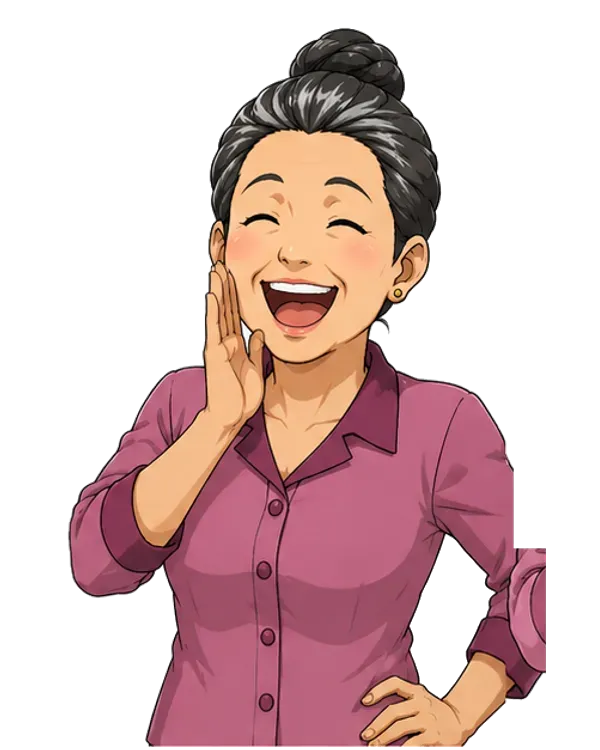
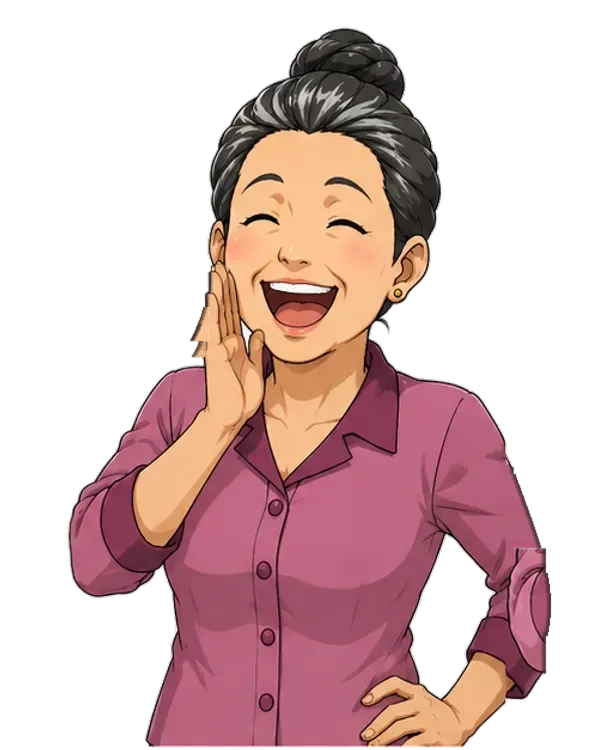
game: กรอบสายด่วน 1669 เป็นหน้าจอโทรศัพท์ + ซ่อม/เปลี่ยนรูปป้าแก้ว (#81)
- กรอบ จนท.1669 เป็นตัวเครื่องโทรศัพท์: แถบสถานะ, บล็อกผู้โทร, เวลาสนทนา
- ปุ่มรับสาย/ลำโพง/วางสาย บนจอ (ลำโพงผูกกับสวิตช์เสียงเกม) ไม่แตะ flow เนื้อเรื่อง
- ซ่อม silhouette รูปป้าแก้วที่โดนตัดเป็นเส้นตรงทั้ง 5 ท่า
- ป้าแก้วท่า panic สลับไปใช้รูปท่า talk ผ่าน poseImage map
- ลด sprite เป็น 100vw กันเวทีเฉือนไหล่/แขน

Changed region(s): [[0.84, 0.6133, 0.9, 0.736], [0.3, 0.368, 0.36, 0.4907], [0.9, 0.736, 0.93, 0.8893]]

diff --git a/files/jia-online/src/game/GamePage.jsx b/files/jia-online/src/game/GamePage.jsx
@@ -60,6 +60,38 @@ const readCleared = () => {
 // ป้ายอ้างอิงบทเรียน — เคสที่ไม่ผูกกับบทใดบทหนึ่ง (bonus) ใช้ c.tag แทน "บทที่ N"
 const lessonTag = (c) => (c.lesson ? `บทที่ ${c.lesson}` : (c.tag || 'โบนัส'));
 
+// นาฬิกาจับเวลาสาย 1669 บนกรอบโทรศัพท์ (mm:ss)
+const fmtCall = (s) => `${String(Math.floor(s / 60)).padStart(2, '0')}:${String(s % 60).padStart(2, '0')}`;
+
+// ลำโพงบนหน้าจอโทรศัพท์ — off = ขีดคาดทับ (เสียงเกมปิดอยู่)
+function Speaker({ off = false }) {
+  return (
+    <svg viewBox="0 0 24 24" aria-hidden="true">
+      <path fill="currentColor" d="M4 9.5h3.2L12 5.4v13.2L7.2 14.5H4a1 1 0 0 1-1-1v-3a1 1 0 0 1 1-1z" />
+      {off ? (
+        <path stroke="currentColor" strokeWidth="2" strokeLinecap="round" d="M15.5 9.5l5 5m0-5l-5 5" />
+      ) : (
+        <path
+          fill="none" stroke="currentColor" strokeWidth="1.9" strokeLinecap="round"
+          d="M15.4 9.1a4 4 0 0 1 0 5.8M18 6.6a7.6 7.6 0 0 1 0 10.8"
+        />
+      )}
+    </svg>
+  );
+}
+
+// หูโทรศัพท์สำหรับปุ่มรับสาย/วางสาย — down = หมุนเป็นท่าวางสาย
+function Handset({ down = false }) {
+  return (
+    <svg viewBox="0 0 24 24" aria-hidden="true" style={down ? { transform: 'rotate(133deg)' } : undefined}>
+      <path
+        fill="currentColor"
+        d="M6.6 10.8c1.4 2.8 3.8 5.2 6.6 6.6l2.2-2.2c.3-.3.7-.4 1-.2 1.2.4 2.4.6 3.6.6.6 0 1 .4 1 1V20c0 .6-.4 1-1 1C10.6 21 3 13.4 3 4c0-.6.4-1 1-1h3.5c.6 0 1 .4 1 1 0 1.3.2 2.5.6 3.6.1.4 0 .8-.2 1l-2.3 2.2z"
+      />
+    </svg>
+  );
+}
+
 // สุ่มเคสที่ยังไม่ถูกล็อก — สำหรับเข้าจากแบนเนอร์/ลิงก์ ?game=random เสิร์ฟโจทย์ให้นักเรียนทันที
 // เลี่ยงเคสที่เคยผ่านมาก่อน (ให้เจอของใหม่) — ถ้าผ่านครบแล้วค่อยสุ่มจากทั้งหมด
 const randomUnlockedScenario = (finalExamPassed) => {
@@ -147,6 +179,17 @@ export default function GamePage({ onExit, onTrack, fetchCustomImages, finalExam
   const [result, setResult] = useState(null); // { won, grade, score, isHiscore }
   const [voucher, setVoucher] = useState(null); // รหัสคูปองส่วนลด ฿100 ที่ได้จากการชนะเกม (null = ยังไม่ได้/ไม่มีสิทธิ์)
   const [hiscore, setHiscore] = useState(() => Number(localStorage.getItem(hiscoreKey(difficulty)) || 0));
+
+  // สายด่วน 1669 — สถานะกรอบโทรศัพท์ (คุมแค่การแสดงผลของกรอบ ไม่แตะ flow เนื้อเรื่อง:
+  // วางสายแล้วบทพูดยังเดินต่อได้ตามปกติ แค่ปิดภาพปลายสายจนกว่าจะกดรับสายใหม่)
+  const [callLive, setCallLive] = useState(true);
+  const [callSec, setCallSec] = useState(0);
+  const onCall = !!(speaker && getCharacter(speaker.who)?.phoneFrame);
+  useEffect(() => {
+    if (!onCall || !callLive) return undefined;
+    const iv = setInterval(() => setCallSec((s) => s + 1), 1000);
+    return () => clearInterval(iv);
+  }, [onCall, callLive]);
 
   const timers = useRef({ type: null, dec: null, misc: [], metronome: null });
   const busyRef = useRef(false);
@@ -521,6 +564,30 @@ export default function GamePage({ onExit, onTrack, fetchCustomImages, finalExam
     );
   }
 
+  // ปุ่มบนกรอบโทรศัพท์ — stopPropagation กันไปโดนแตะเวที (ซึ่ง = ข้าม/ไปต่อบทพูด)
+  function answerCall(e) {
+    e.stopPropagation();
+    if (callLive) return;
+    setCallLive(true);
+    setCallSec(0);
+    sfx(() => playBeep(680, 0.12, 0.2));
+    vibrate(30);
+  }
+
+  function hangCall(e) {
+    e.stopPropagation();
+    if (!callLive) return;
+    setCallLive(false);
+    sfx(() => playBeep(220, 0.2, 0.24));
+    vibrate(20);
+  }
+
+  // ปุ่มลำโพงบนกรอบโทรศัพท์ = สวิตช์เสียงของเกม (ปุ่มบนหน้าจอโทรศัพท์ที่ทำงานจริง)
+  function toggleSpeaker(e) {
+    e.stopPropagation();
+    toggleMute();
+  }
+
   function onDialogTap() {
     if (busyRef.current) return;
     if (!mutedRef.current) initAudio(); // เข้าจากลิงก์ auto-start: แตะครั้งแรกในเกมคือ gesture ที่ปลดล็อกเสียง
@@ -556,6 +623,8 @@ export default function GamePage({ onExit, onTrack, fetchCustomImages, finalExam
     setDrama(null);
     setSpeaker(null);
     setPlate(null);
+    setCallLive(true);
+    setCallSec(0);
     setDlgHtml('');
     setScreen('game');
     track('game_started', { scenario_id: sc.id, lesson: sc.lesson, difficulty });
@@ -915,13 +984,72 @@ export default function GamePage({ onExit, onTrack, fetchCustomImages, finalExam
           {speaker && (
             <div className={`cbs-sprite ${reducedMotion ? '' : 'cbs-pop'}`} key={`sp-${speaker.popN}`}>
               {char?.phoneFrame ? (
-                /* ตัวละครที่คุยผ่านสาย — ใส่กรอบวิดีโอคอล: ขอบกรอบครอปข้างลำตัว
-                   ที่โดนตัดจากภาพต้นฉบับ ให้ดูเป็นเฟรมสายด่วนที่ตั้งใจ */
-                <div className="cbs-phoneframe">
-                  <CharacterSprite charId={speaker.who} pose={speaker.pose} talking={typing} imgV={imgV} />
-                  <div className="cbs-phoneframe-head">
-                    <span className="cbs-phoneframe-dot" />{char.phoneFrame}
+                /* ตัวละครที่คุยผ่านสาย — ใส่กรอบโทรศัพท์: จอครอปข้างลำตัวที่โดนตัด
+                   จากภาพต้นฉบับ ให้ดูเป็นเฟรมสายด่วนที่ตั้งใจ + ปุ่มรับสาย/วางสายจริง */
+                <div className="cbs-phone">
+                  <div className="cbs-phone-ear" />
+                  <div className="cbs-phone-screen">
+                    {/* แถบสถานะบนสุดแบบมือถือ: ชื่อเครือข่าย + สัญญาณ + แบต */}
+                    <div className="cbs-phone-status">
+                      <span>EMS 1669</span>
+                      <span className="cbs-phone-status-r">
+                        <span className="cbs-phone-sig" aria-hidden="true"><i /><i /><i /><i /></span>
+                        <span className="cbs-phone-batt" aria-hidden="true" />
+                      </span>
+                    </div>
+
+                    {callLive ? (
+                      <CharacterSprite charId={speaker.who} pose={speaker.pose} talking={typing} imgV={imgV} />
+                    ) : (
+                      <div className="cbs-phone-idle">
+                        <span className="cbs-phone-avatar" aria-hidden="true"><Handset down /></span>
+                        <span className="cbs-phone-idle-note">แตะปุ่มเขียวเพื่อโทรกลับ</span>
+                      </div>
+                    )}
+
+                    {/* บล็อกชื่อผู้โทร — วางแบบหน้าจอสายเรียกเข้าจริง */}
+                    <div className="cbs-phone-caller">
+                      <b>{char.name}</b>
+                      <span className="cbs-phone-sub">{char.role}</span>
+                      <span className={`cbs-phone-state ${callLive ? '' : 'cbs-off'}`}>
+                        <i className="cbs-phone-dot" />
+                        {callLive ? `กำลังสนทนา ${fmtCall(callSec)}` : `วางสายแล้ว · ${fmtCall(callSec)}`}
+                      </span>
+                    </div>
+
+                    <div className="cbs-phone-keys">
+                      <button
+                        type="button"
+                        className="cbs-phone-key cbs-phone-answer"
+                        onClick={answerCall}
+                        disabled={callLive}
+                        aria-label="รับสาย"
+                      >
+                        <span className="cbs-phone-ico"><Handset /></span>
+                        รับสาย
+                      </button>
+                      <button
+                        type="button"
+                        className={`cbs-phone-key cbs-phone-speaker ${muted ? '' : 'cbs-on'}`}
+                        onClick={toggleSpeaker}
+                        aria-label={muted ? 'เปิดลำโพง' : 'ปิดลำโพง'}
+                      >
+                        <span className="cbs-phone-ico"><Speaker off={muted} /></span>
+                        ลำโพง
+                      </button>
+                      <button
+                        type="button"
+                        className="cbs-phone-key cbs-phone-hangup"
+                        onClick={hangCall}
+                        disabled={!callLive}
+                        aria-label="วางสาย"
+                      >
+                        <span className="cbs-phone-ico"><Handset down /></span>
+                        วางสาย
+                      </button>
+                    </div>
                   </div>
+                  <div className="cbs-phone-chin" />
                 </div>
               ) : (
                 <CharacterSprite charId={speaker.who} pose={speaker.pose} talking={typing} imgV={imgV} />

diff --git a/files/jia-online/src/game/game.css b/files/jia-online/src/game/game.css
@@ -310,8 +310,9 @@
 
 .cbs-sprite {
   position: relative; z-index: 2; flex-shrink: 0;
-  /* ขนาดเดียวกับ Code Blue Sim (acls.morroo.com) — ตัวละครใหญ่เกือบเต็มความกว้างจอมือถือ */
-  width: min(105vw, 445px);
+  /* ตัวละครใหญ่เกือบเต็มความกว้างจอมือถือ — แต่ไม่เกิน 100vw
+     เพราะเวที overflow:hidden จะเฉือนแขน/ไหล่ที่ล้นออกไปจนดูแหว่ง */
+  width: min(100vw, 445px);
 }
 .cbs-sprite.cbs-pop { animation: cbs-pop .22s ease; }
 .cbs-sprite svg, .cbs-sprite-img {
@@ -320,32 +321,141 @@
 }
 .cbs-sprite-img { user-select: none; }
 
-/* กรอบวิดีโอคอล "สายด่วน" — ตัวละครที่คุยผ่านโทรศัพท์ (จนท.1669)
-   ขอบกรอบครอปข้างลำตัวที่โดนตัดจากภาพต้นฉบับแผงแคบ ให้ดูเป็นเฟรมที่ตั้งใจ */
-.cbs-phoneframe {
-  position: relative; width: 52%; margin: 0 auto;
-  border: 3px solid #33406E; border-radius: 16px;
-  background: linear-gradient(180deg, #16224C, #0B1130);
-  overflow: hidden;
-  box-shadow: 0 0 0 3px rgba(4, 8, 18, .55), 0 14px 34px rgba(0, 0, 0, .55);
+/* กรอบ "โทรศัพท์สายด่วน" — ตัวละครที่คุยผ่านสาย (จนท.1669)
+   จอครอปข้างลำตัวที่โดนตัดจากภาพต้นฉบับแผงแคบ ให้ดูเป็นเฟรมที่ตั้งใจ
+   + ปุ่มรับสาย/วางสายบนจอ เหมือนหน้าจอสายเรียกเข้าในมือถือจริง */
+.cbs-phone {
+  position: relative; width: 63%; margin: 0 auto;
+  padding: 9px 8px 10px;
+  border: 2px solid #3A466F; border-radius: 26px;
+  background: linear-gradient(180deg, #2A3254, #171D35 46%, #0E1327);
+  box-shadow:
+    inset 0 1px 0 rgba(255, 255, 255, .13),
+    0 0 0 3px rgba(4, 8, 18, .55),
+    0 16px 34px rgba(0, 0, 0, .6);
 }
-/* ขยายรูปกลับเท่าขนาด sprite จริง (1/0.52) — กรอบทำหน้าที่ครอปซ้ายขวา */
-.cbs-phoneframe .cbs-sprite-img, .cbs-phoneframe svg {
+/* ช่องลำโพงหูฟังบนหัวเครื่อง + แถบ home indicator ที่คาง = อ่านออกว่าเป็นมือถือ */
+.cbs-phone-ear {
+  width: 30%; height: 4px; margin: 1px auto 7px;
+  border-radius: 999px; background: #070B16;
+  box-shadow: inset 0 1px 1.5px rgba(0, 0, 0, .9);
+}
+.cbs-phone-chin {
+  width: 34%; height: 3px; margin: 7px auto 0;
+  border-radius: 999px; background: rgba(180, 195, 235, .35);
+}
+.cbs-phone-screen {
+  position: relative; border-radius: 15px; overflow: hidden;
+  border: 1px solid rgba(120, 140, 200, .22);
+  background: linear-gradient(180deg, #16224C, #0B1130);
+}
+/* ขยายรูปกลับเท่าขนาด sprite จริง (1/0.52) — จอทำหน้าที่ครอปซ้ายขวา */
+.cbs-phone-screen > .cbs-sprite-img, .cbs-phone-screen .cbs-sprite-svg svg {
   width: 192.3%; margin-left: -46.15%;
   filter: none; /* เงา drop-shadow ไม่จำเป็นในกรอบ — กรอบมีเงาของตัวเอง */
 }
-.cbs-phoneframe-head {
-  position: absolute; top: 8px; left: 50%; transform: translateX(-50%);
-  display: inline-flex; align-items: center; gap: 6px;
-  font-family: var(--cbs-mono); font-size: 11px; letter-spacing: .08em;
-  color: #FFD9DA; background: rgba(4, 8, 18, .78);
-  border: 1.5px solid rgba(229, 72, 77, .65); border-radius: 999px;
-  padding: 4px 12px; white-space: nowrap;
+/* แถบสถานะบนสุดของจอ — เครือข่าย/สัญญาณ/แบต */
+.cbs-phone-status {
+  position: absolute; top: 0; left: 0; right: 0; z-index: 3;
+  display: flex; align-items: center; justify-content: space-between;
+  padding: 5px 11px 9px;
+  font-family: var(--cbs-mono); font-size: 8.5px; letter-spacing: .1em;
+  color: rgba(233, 239, 255, .9);
+  background: linear-gradient(180deg, rgba(4, 8, 18, .8), transparent);
 }
-.cbs-phoneframe-dot {
-  width: 7px; height: 7px; border-radius: 50%;
-  background: var(--cbs-red); box-shadow: 0 0 8px var(--cbs-red);
+.cbs-phone-status-r { display: inline-flex; align-items: center; gap: 5px; }
+.cbs-phone-sig { display: inline-flex; align-items: flex-end; gap: 1.5px; height: 8px; }
+.cbs-phone-sig i { width: 2px; background: currentColor; border-radius: 1px; }
+.cbs-phone-sig i:nth-child(1) { height: 3px; }
+.cbs-phone-sig i:nth-child(2) { height: 5px; }
+.cbs-phone-sig i:nth-child(3) { height: 6.5px; }
+.cbs-phone-sig i:nth-child(4) { height: 8px; }
+.cbs-phone-batt {
+  position: relative; width: 15px; height: 8px; border-radius: 2px;
+  border: 1px solid currentColor; padding: 1px;
+  background:
+    linear-gradient(90deg, currentColor 72%, transparent 72%) content-box no-repeat;
+}
+.cbs-phone-batt::after {
+  content: ""; position: absolute; right: -3px; top: 2px;
+  width: 1.5px; height: 3px; border-radius: 0 1px 1px 0; background: currentColor;
+}
+
+/* บล็อกชื่อผู้โทร — ชื่อ + หน่วยงาน + สถานะสาย เหมือนหน้าจอโทรออกจริง */
+.cbs-phone-caller {
+  position: absolute; top: 22px; left: 0; right: 0; z-index: 2;
+  display: flex; flex-direction: column; align-items: center; gap: 2px;
+  padding: 4px 10px 16px; text-align: center;
+  background: linear-gradient(180deg, rgba(4, 8, 18, .72) 45%, transparent);
+  text-shadow: 0 1px 4px rgba(0, 0, 0, .85);
+}
+.cbs-phone-caller b { font-size: 13.5px; letter-spacing: .02em; }
+.cbs-phone-sub { font-size: 9.5px; color: #A8B4D8; letter-spacing: .06em; }
+.cbs-phone-state {
+  display: inline-flex; align-items: center; gap: 5px; margin-top: 2px;
+  font-family: var(--cbs-mono); font-size: 10px; color: #BFE9CF;
+  font-variant-numeric: tabular-nums;
+}
+.cbs-phone-state.cbs-off { color: #C79AA0; }
+.cbs-phone-dot {
+  width: 6px; height: 6px; border-radius: 50%;
+  background: var(--cbs-green); box-shadow: 0 0 7px var(--cbs-green);
   animation: cbs-blink 1.2s steps(2) infinite;
+}
+.cbs-phone-state.cbs-off .cbs-phone-dot {
+  background: var(--cbs-red); box-shadow: 0 0 7px var(--cbs-red); animation: none;
+}
+
+/* หน้าจอตอนวางสายไปแล้ว — บทพูดยังเดินต่อได้ แค่ปิดภาพปลายสาย */
+.cbs-phone-idle {
+  display: flex; flex-direction: column; align-items: center; justify-content: center;
+  gap: 12px; min-height: 250px; padding: 84px 16px 92px;
+}
+.cbs-phone-idle-note { font-size: 10.5px; color: #8B99C4; letter-spacing: .04em; }
+.cbs-phone-avatar {
+  width: 74px; height: 74px; border-radius: 50%;
+  display: grid; place-items: center; color: #7C8AB4;
+  background: rgba(120, 140, 200, .12);
+  border: 1.5px solid rgba(120, 140, 200, .28);
+}
+.cbs-phone-avatar svg { width: 30px; height: 30px; filter: none; }
+
+/* แถบปุ่มรับสาย/วางสาย — ลอยบนจอเหมือน call screen (ไม่กินความสูงเวที) */
+.cbs-phone-keys {
+  position: absolute; left: 0; right: 0; bottom: 0;
+  display: flex; justify-content: center; gap: 14px;
+  padding: 34px 8px 12px;
+  background: linear-gradient(180deg, transparent, rgba(4, 8, 18, .9) 58%);
+}
+.cbs-phone-key {
+  display: flex; flex-direction: column; align-items: center; gap: 5px;
+  padding: 0; border: 0; background: none; cursor: pointer;
+  font-family: var(--cbs-mono); font-size: 9.5px; letter-spacing: .06em;
+  color: #E7ECFF;
+}
+.cbs-phone-ico {
+  width: 42px; height: 42px; border-radius: 50%;
+  display: grid; place-items: center; color: #fff; font-size: 17px;
+  border: 1.5px solid rgba(4, 8, 18, .45);
+  box-shadow: 0 4px 12px rgba(0, 0, 0, .5), inset 0 1px 0 rgba(255, 255, 255, .28);
+}
+.cbs-phone-key svg { width: 21px; height: 21px; display: block; filter: none; }
+.cbs-phone-answer .cbs-phone-ico { background: linear-gradient(180deg, #4BD97F, #1E9B4C); }
+.cbs-phone-hangup .cbs-phone-ico { background: linear-gradient(180deg, #F2686C, #C22026); }
+/* ลำโพง = สวิตช์เสียงเกม — สว่างเมื่อเปิดเสียง */
+.cbs-phone-speaker .cbs-phone-ico {
+  background: rgba(233, 239, 255, .14); border-color: rgba(233, 239, 255, .3);
+}
+.cbs-phone-speaker.cbs-on .cbs-phone-ico {
+  background: rgba(233, 239, 255, .92); border-color: rgba(255, 255, 255, .6);
+}
+.cbs-phone-key:disabled { opacity: .32; cursor: default; }
+.cbs-phone-key:not(:disabled):active .cbs-phone-ico { transform: scale(.92); }
+/* ปุ่มที่กดได้ตอนนี้สั่นเรียกสายให้เห็นชัดว่าแตะได้ */
+.cbs-phone-answer:not(:disabled) .cbs-phone-ico { animation: cbs-ring 1.1s ease-in-out infinite; }
+@keyframes cbs-ring {
+  0%, 100% { transform: rotate(0); box-shadow: 0 0 0 0 rgba(75, 217, 127, .55), 0 4px 12px rgba(0, 0, 0, .5); }
+  50% { transform: rotate(-9deg); box-shadow: 0 0 0 11px rgba(75, 217, 127, 0), 0 4px 12px rgba(0, 0, 0, .5); }
 }
 
 /* HUD */
@@ -605,7 +715,8 @@
   .cbs-shake, .cbs-flash.cbs-go, .cbs-redflash.cbs-go,
   .cbs-title::before, .cbs-stage.cbs-drama::before, .cbs-stage.cbs-drama-red::before,
   .cbs-inter-burst, .cbs-adv, .cbs-choice, .cbs-sprite.cbs-pop,
-  .cbs-inter-bubble, .cbs-stamp, .cbs-retry-banner {
+  .cbs-inter-bubble, .cbs-stamp, .cbs-retry-banner,
+  .cbs-phone-answer:not(:disabled) .cbs-phone-ico {
     animation: none !important;
   }
 }

diff --git a/files/jia-online/src/game/characters.js b/files/jia-online/src/game/characters.js
@@ -68,6 +68,9 @@ export const CHARACTERS = {
     name: 'ป้าแก้ว',
     role: 'คนเห็นเหตุการณ์',
     plate: ['#C86FA0', '#8E3D6C'],
+    // ท่า panic ของป้าแก้ว: ไม่ใช้รูป panic.webp — ให้ไปหยิบรูปท่า talk มาแสดงแทน
+    // (ท่าตะโกนเหมือนกัน) engine ยังส่ง pose 'panic' ตามเดิม เอฟเฟกต์จอแดงจึงยังทำงาน
+    poseImage: { panic: 'talk' },
     placeholder(pose) {
       const skin = '#F6CDA8', dress = '#C86FA0', dressD = '#9A4A78', hair = '#4A3A3F';
       return `<svg viewBox="0 0 200 250" xmlns="http://www.w3.org/2000/svg">
@@ -186,8 +189,14 @@ export function registerCustomImages(map) {
 }
 
 // URL รูปจริง — ลำดับ: รูปที่แอดมินอัปโหลด > ไฟล์ใน public/images/characters/ > SVG placeholder
+// ตัวละครที่ตั้ง poseImage ไว้ จะสลับไปใช้ไฟล์ของอีกท่าหนึ่ง — แต่ถ้าแอดมินอัปโหลดรูป
+// ของท่านั้นมาเองแล้ว ให้รูปที่อัปโหลดชนะเสมอ (ตั้งใจอัปมาก็ต้องได้ใช้)
 export function characterImageUrl(charId, pose, talking = false) {
-  const key = `${charId}/${pose}${talking ? '_talk' : ''}`;
-  if (customImages[key]) return customImages[key];
-  return `/images/characters/${charId}/${pose}${talking ? '_talk' : ''}.webp`;
+  const suffix = talking ? '_talk' : '';
+  if (customImages[`${charId}/${pose}${suffix}`]) return customImages[`${charId}/${pose}${suffix}`];
+  const file = CHARACTERS[charId]?.poseImage?.[pose] || pose;
+  if (file !== pose && customImages[`${charId}/${file}${suffix}`]) {
+    return customImages[`${charId}/${file}${suffix}`];
+  }
+  return `/images/characters/${charId}/${file}${suffix}.webp`;
 }
